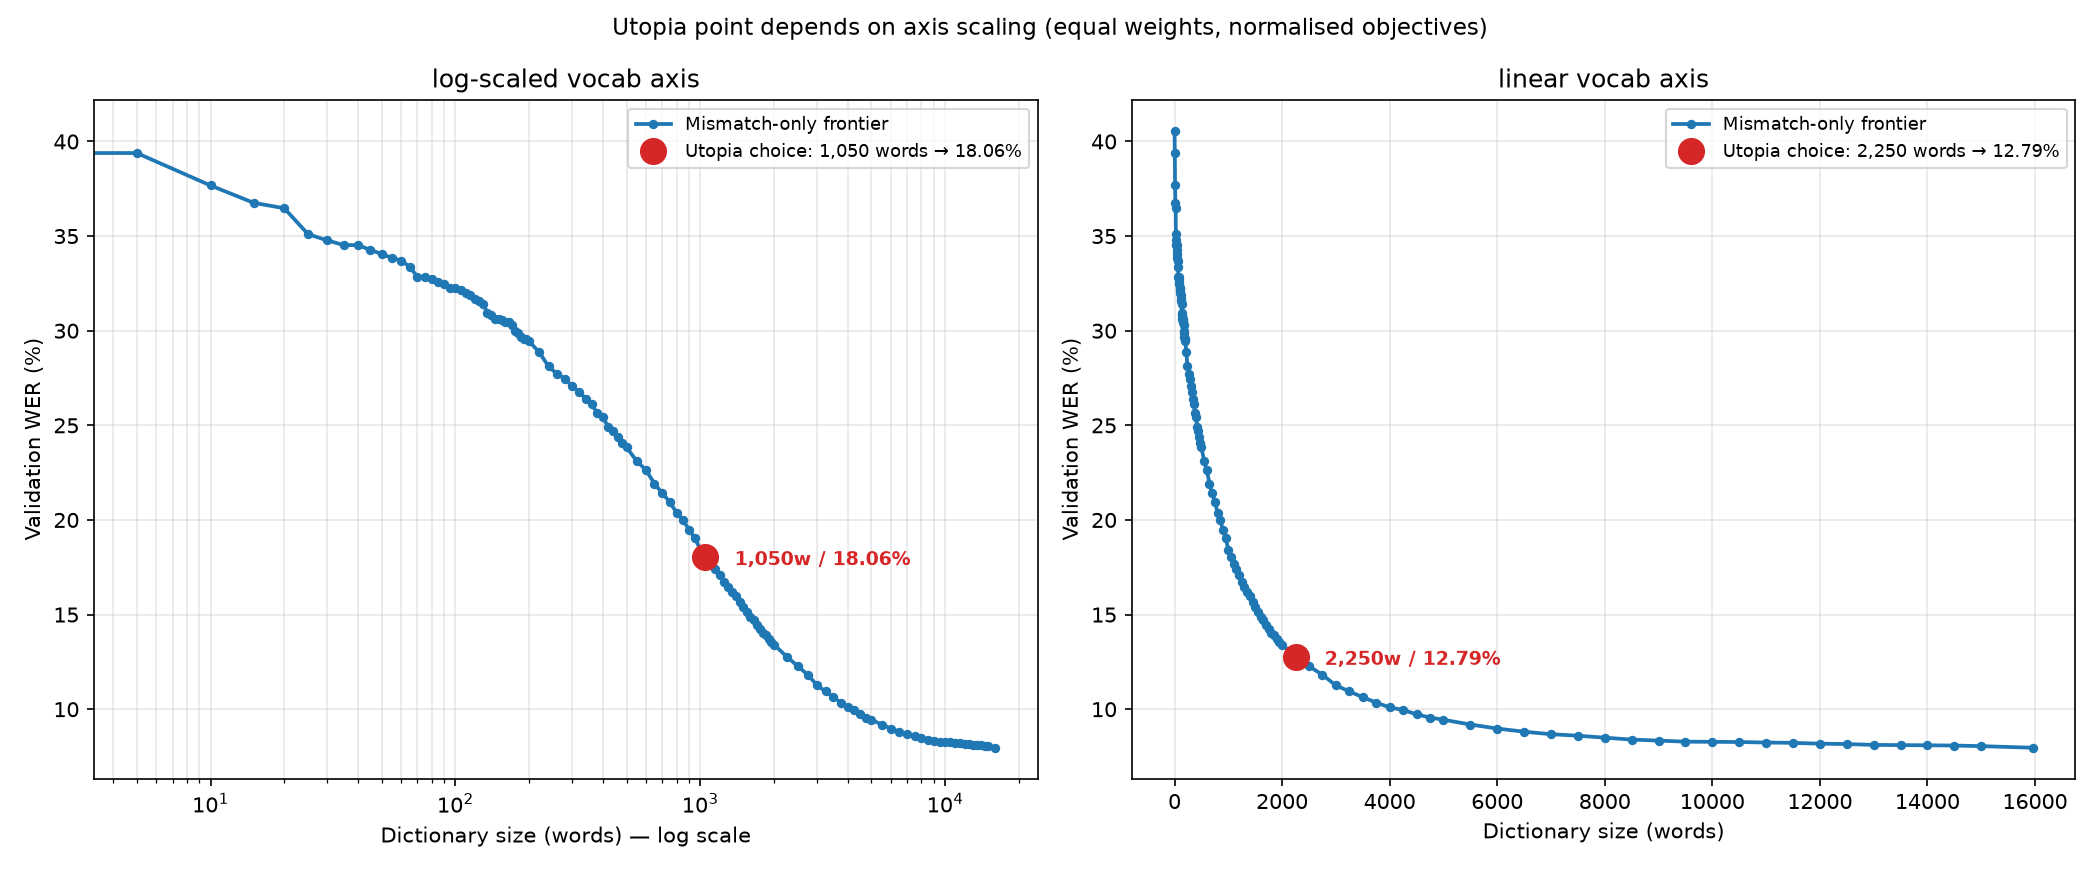
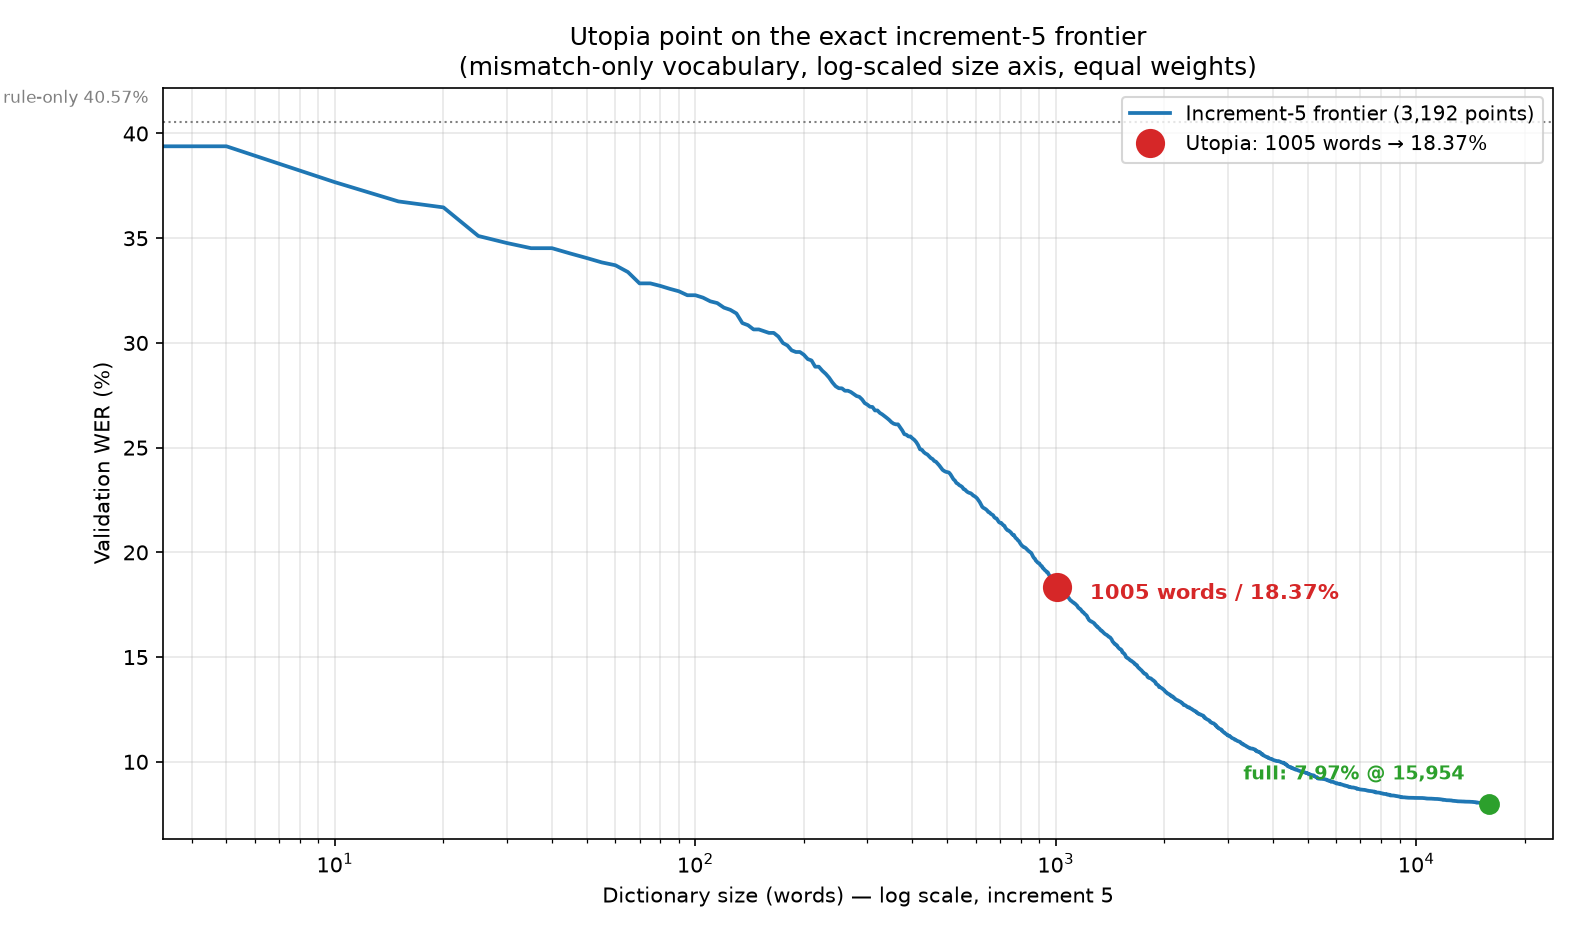
Redo the utopia analysis on an exact increment-5 sweep

diff --git a/docs/EVALUATION.md b/docs/EVALUATION.md
@@ -563,7 +563,45 @@ Vocabulary saved at equal accuracy:
 
 Two caveats on the ranking. It is by raw frequency, not by error-reduction, so a frequent token that contributes one edit outranks a rarer one that contributes several; ranking by `frequency x edits-avoided` would move the knee left. And 155 tokens in the mismatch set never appear in validation at all, so their position in the training-derived order is untested.
 
-### Utopia point
+### Utopia point (exact increment-5 sweep, log-scaled size axis)
+
+The earlier utopia analysis used a sweep that coarsened to 250–500 word steps above 2,000 words, which is not "increment 5" and moves the answer. It was redone at **+5 words for all 3,192 points** across the full 15,954-entry mismatch vocabulary, measured by the real engine at every point.
+
+| Dictionary words | Validation WER | Exact sentences |
+| ---: | ---: | ---: |
+| 0 | 40.57% | 109 |
+| 25 | 35.11% | 125 |
+| 100 | 32.28% | 132 |
+| 250 | 27.84% | 149 |
+| 500 | 23.83% | 174 |
+| 1,005 | 18.37% | 237 |
+| 2,000 | 13.42% | 350 |
+| 3,000 | 11.26% | 455 |
+| 5,000 | 9.44% | 571 |
+| 10,000 | 8.28% | 664 |
+| 15,954 | 7.97% | 700 |
+
+**Utopia point (equal weights, log-scaled size axis): 1,005 words → 18.371% validation WER.** It is a genuine minimum of the normalised distance, and neighbouring points are within 0.01% of it rather than snapping to an artefact.
+
+Weight sensitivity on this exact curve:
+
+| Vocabulary weight | Choice | Validation WER |
+| ---: | ---: | ---: |
+| 0.3 | 3,000 words | 11.26% |
+| 0.4 | 1,935 words | 13.57% |
+| **0.5** | **1,005 words** | **18.37%** |
+| 0.6 | 25 words | 35.11% |
+| 0.7 | 0 words | 40.57% |
+
+Three failed attempts preceded the correct measurement, and they are worth recording because each produced a plausible-looking curve:
+
+1. **Per-token reconstruction** (sum of `jawiToRumi` per token) gave 48.95% at N=0 against a true 40.57%. `jawiToLatin` splits hyphenated tokens and resolves the `٢` repeat marker at sentence level, so the sum of parts is not the whole.
+2. **Index substitution on the baseline hypothesis** matched at N=0 but drifted at every checkpoint (23.83% true vs 24.76% measured at N=500). A normalized Jawi token is not always one output word, and a dictionary hit can also change how a multi-token entry is segmented.
+3. Both were abandoned in favour of running the engine at each point, which is exact but costs 10 minutes.
+
+Every published number in this document for the dictionary frontier now comes from engine-at-every-point measurement.
+
+### Earlier utopia analysis (superseded: sparse sweep above 2,000 words)
 
 The Pareto knee depends on a chord, which is arbitrary. The utopia point is the frontier vertex closest to the ideal (smallest vocabulary, lowest WER), with both objectives normalised to their range on the frontier and equal weights:
 
